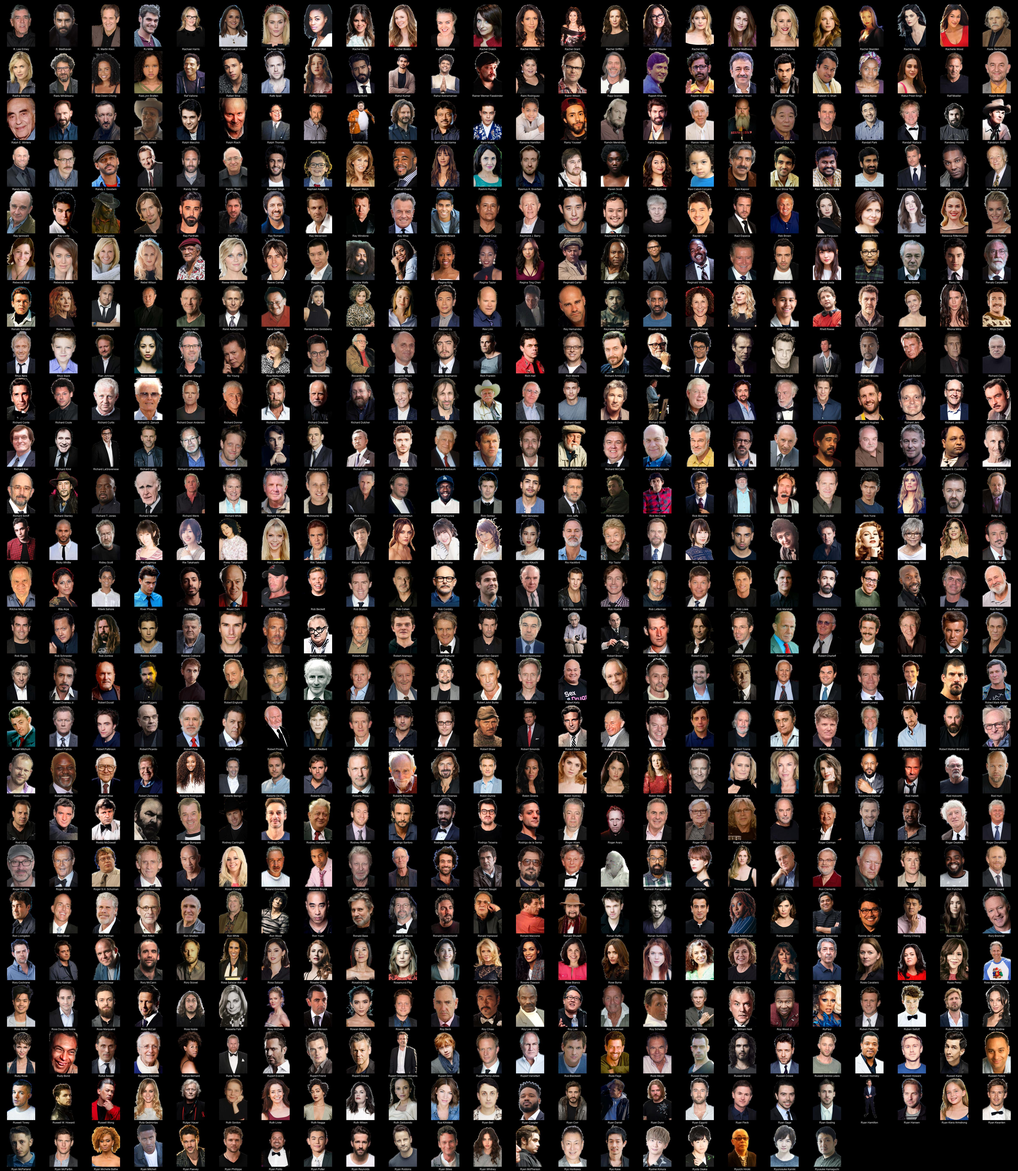
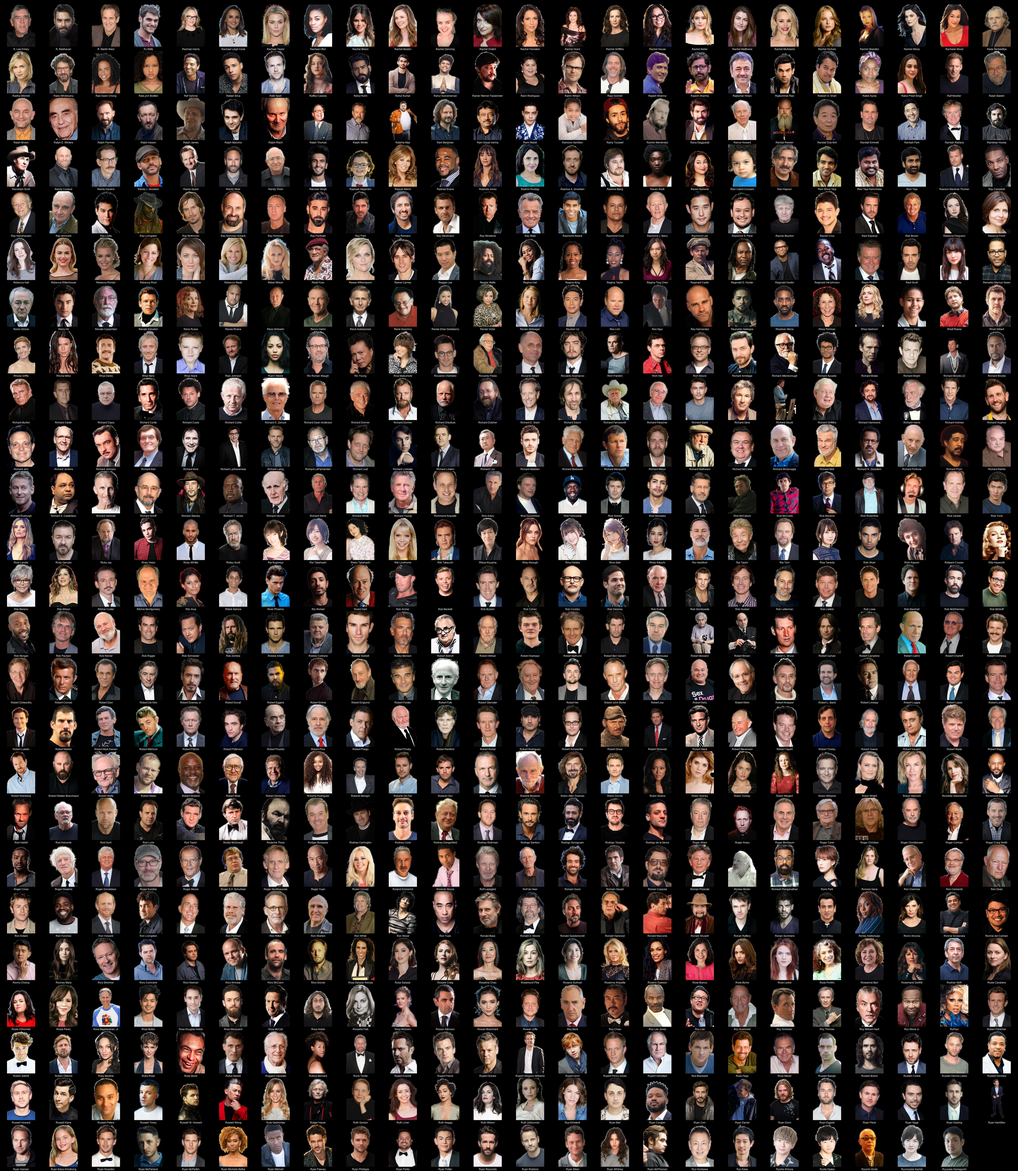
more people

diff --git a/README.md b/README.md
@@ -1,4 +1,4 @@
-# Kometa People Images - Transparent (transparent) (9354 Images)
+# Kometa People Images - Transparent (transparent) (9358 Images)
 
 <details><summary><a href="'">' (1 Images)</a></summary>
 
@@ -3300,7 +3300,7 @@
 * [Günter Lamprecht](https://raw.githubusercontent.com/Kometa-Team/People-Images-transparent/master/G/Images/G%C3%BCnter%20Lamprecht.png)
 * [Günther Stoll](https://raw.githubusercontent.com/Kometa-Team/People-Images-transparent/master/G/Images/G%C3%BCnther%20Stoll.png)
 </details>
-<details><summary><a href="H">H (219 Images)</a></summary>
+<details><summary><a href="H">H (220 Images)</a></summary>
 
 * [H. Jon Benjamin](https://raw.githubusercontent.com/Kometa-Team/People-Images-transparent/master/H/Images/H.%20Jon%20Benjamin.png)
 * [H.M. Walker](https://raw.githubusercontent.com/Kometa-Team/People-Images-transparent/master/H/Images/H.M.%20Walker.png)
@@ -3314,6 +3314,7 @@
 * [Hakeem Kae-Kazim](https://raw.githubusercontent.com/Kometa-Team/People-Images-transparent/master/H/Images/Hakeem%20Kae-Kazim.png)
 * [Hal Ashby](https://raw.githubusercontent.com/Kometa-Team/People-Images-transparent/master/H/Images/Hal%20Ashby.png)
 * [Hal B. Wallis](https://raw.githubusercontent.com/Kometa-Team/People-Images-transparent/master/H/Images/Hal%20B.%20Wallis.png)
+* [Hal Hartley](https://raw.githubusercontent.com/Kometa-Team/People-Images-transparent/master/H/Images/Hal%20Hartley.png)
 * [Hal Holbrook](https://raw.githubusercontent.com/Kometa-Team/People-Images-transparent/master/H/Images/Hal%20Holbrook.png)
 * [Hal Needham](https://raw.githubusercontent.com/Kometa-Team/People-Images-transparent/master/H/Images/Hal%20Needham.png)
 * [Hal Roach](https://raw.githubusercontent.com/Kometa-Team/People-Images-transparent/master/H/Images/Hal%20Roach.png)
@@ -7260,7 +7261,7 @@
 * [Quinn Duffy](https://raw.githubusercontent.com/Kometa-Team/People-Images-transparent/master/Q/Images/Quinn%20Duffy.png)
 * [Quinton Jackson](https://raw.githubusercontent.com/Kometa-Team/People-Images-transparent/master/Q/Images/Quinton%20Jackson.png)
 </details>
-<details><summary><a href="R">R (596 Images)</a></summary>
+<details><summary><a href="R">R (599 Images)</a></summary>
 
 * [R. Lee Ermey](https://raw.githubusercontent.com/Kometa-Team/People-Images-transparent/master/R/Images/R.%20Lee%20Ermey.png)
 * [R. Madhavan](https://raw.githubusercontent.com/Kometa-Team/People-Images-transparent/master/R/Images/R.%20Madhavan.png)
@@ -7309,6 +7310,7 @@
 * [Rakie Ayola](https://raw.githubusercontent.com/Kometa-Team/People-Images-transparent/master/R/Images/Rakie%20Ayola.png)
 * [Rakul Preet Singh](https://raw.githubusercontent.com/Kometa-Team/People-Images-transparent/master/R/Images/Rakul%20Preet%20Singh.png)
 * [Ralf Moeller](https://raw.githubusercontent.com/Kometa-Team/People-Images-transparent/master/R/Images/Ralf%20Moeller.png)
+* [Ralph Bakshi](https://raw.githubusercontent.com/Kometa-Team/People-Images-transparent/master/R/Images/Ralph%20Bakshi.png)
 * [Ralph Brown](https://raw.githubusercontent.com/Kometa-Team/People-Images-transparent/master/R/Images/Ralph%20Brown.png)
 * [Ralph E. Winters](https://raw.githubusercontent.com/Kometa-Team/People-Images-transparent/master/R/Images/Ralph%20E.%20Winters.png)
 * [Ralph Fiennes](https://raw.githubusercontent.com/Kometa-Team/People-Images-transparent/master/R/Images/Ralph%20Fiennes.png)
@@ -7362,6 +7364,8 @@
 * [Ray Liotta](https://raw.githubusercontent.com/Kometa-Team/People-Images-transparent/master/R/Images/Ray%20Liotta.png)
 * [Ray Livingston](https://raw.githubusercontent.com/Kometa-Team/People-Images-transparent/master/R/Images/Ray%20Livingston.png)
 * [Ray McKinnon](https://raw.githubusercontent.com/Kometa-Team/People-Images-transparent/master/R/Images/Ray%20McKinnon.png)
+* [Ray Nicholas Hosack](https://raw.githubusercontent.com/Kometa-Team/People-Images-transparent/master/R/Images/Ray%20Nicholas%20Hosack.png)
+* [Ray Nicholas](https://raw.githubusercontent.com/Kometa-Team/People-Images-transparent/master/R/Images/Ray%20Nicholas.png)
 * [Ray Panthaki](https://raw.githubusercontent.com/Kometa-Team/People-Images-transparent/master/R/Images/Ray%20Panthaki.png)
 * [Ray Park](https://raw.githubusercontent.com/Kometa-Team/People-Images-transparent/master/R/Images/Ray%20Park.png)
 * [Ray Romano](https://raw.githubusercontent.com/Kometa-Team/People-Images-transparent/master/R/Images/Ray%20Romano.png)

diff --git a/R/README.md b/R/README.md
@@ -1,4 +1,4 @@
-# Kometa People Images - Transparent (transparent) - R (596 Images)
+# Kometa People Images - Transparent (transparent) - R (599 Images)
 ![Grid](grid.jpg)
 
 * [R. Lee Ermey](https://raw.githubusercontent.com/Kometa-Team/People-Images-transparent/master/R/Images/R.%20Lee%20Ermey.png)
@@ -48,6 +48,7 @@
 * [Rakie Ayola](https://raw.githubusercontent.com/Kometa-Team/People-Images-transparent/master/R/Images/Rakie%20Ayola.png)
 * [Rakul Preet Singh](https://raw.githubusercontent.com/Kometa-Team/People-Images-transparent/master/R/Images/Rakul%20Preet%20Singh.png)
 * [Ralf Moeller](https://raw.githubusercontent.com/Kometa-Team/People-Images-transparent/master/R/Images/Ralf%20Moeller.png)
+* [Ralph Bakshi](https://raw.githubusercontent.com/Kometa-Team/People-Images-transparent/master/R/Images/Ralph%20Bakshi.png)
 * [Ralph Brown](https://raw.githubusercontent.com/Kometa-Team/People-Images-transparent/master/R/Images/Ralph%20Brown.png)
 * [Ralph E. Winters](https://raw.githubusercontent.com/Kometa-Team/People-Images-transparent/master/R/Images/Ralph%20E.%20Winters.png)
 * [Ralph Fiennes](https://raw.githubusercontent.com/Kometa-Team/People-Images-transparent/master/R/Images/Ralph%20Fiennes.png)
@@ -101,6 +102,8 @@
 * [Ray Liotta](https://raw.githubusercontent.com/Kometa-Team/People-Images-transparent/master/R/Images/Ray%20Liotta.png)
 * [Ray Livingston](https://raw.githubusercontent.com/Kometa-Team/People-Images-transparent/master/R/Images/Ray%20Livingston.png)
 * [Ray McKinnon](https://raw.githubusercontent.com/Kometa-Team/People-Images-transparent/master/R/Images/Ray%20McKinnon.png)
+* [Ray Nicholas Hosack](https://raw.githubusercontent.com/Kometa-Team/People-Images-transparent/master/R/Images/Ray%20Nicholas%20Hosack.png)
+* [Ray Nicholas](https://raw.githubusercontent.com/Kometa-Team/People-Images-transparent/master/R/Images/Ray%20Nicholas.png)
 * [Ray Panthaki](https://raw.githubusercontent.com/Kometa-Team/People-Images-transparent/master/R/Images/Ray%20Panthaki.png)
 * [Ray Park](https://raw.githubusercontent.com/Kometa-Team/People-Images-transparent/master/R/Images/Ray%20Park.png)
 * [Ray Romano](https://raw.githubusercontent.com/Kometa-Team/People-Images-transparent/master/R/Images/Ray%20Romano.png)

diff --git a/H/README.md b/H/README.md
@@ -1,4 +1,4 @@
-# Kometa People Images - Transparent (transparent) - H (219 Images)
+# Kometa People Images - Transparent (transparent) - H (220 Images)
 ![Grid](grid.jpg)
 
 * [H. Jon Benjamin](https://raw.githubusercontent.com/Kometa-Team/People-Images-transparent/master/H/Images/H.%20Jon%20Benjamin.png)
@@ -13,6 +13,7 @@
 * [Hakeem Kae-Kazim](https://raw.githubusercontent.com/Kometa-Team/People-Images-transparent/master/H/Images/Hakeem%20Kae-Kazim.png)
 * [Hal Ashby](https://raw.githubusercontent.com/Kometa-Team/People-Images-transparent/master/H/Images/Hal%20Ashby.png)
 * [Hal B. Wallis](https://raw.githubusercontent.com/Kometa-Team/People-Images-transparent/master/H/Images/Hal%20B.%20Wallis.png)
+* [Hal Hartley](https://raw.githubusercontent.com/Kometa-Team/People-Images-transparent/master/H/Images/Hal%20Hartley.png)
 * [Hal Holbrook](https://raw.githubusercontent.com/Kometa-Team/People-Images-transparent/master/H/Images/Hal%20Holbrook.png)
 * [Hal Needham](https://raw.githubusercontent.com/Kometa-Team/People-Images-transparent/master/H/Images/Hal%20Needham.png)
 * [Hal Roach](https://raw.githubusercontent.com/Kometa-Team/People-Images-transparent/master/H/Images/Hal%20Roach.png)
